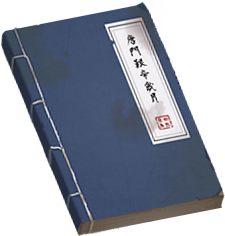
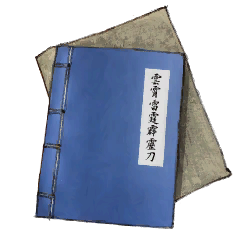
更新雲霄雷霆霹靂刀、雲裳劍法

diff --git a/docs/system/books/book_2302.md b/docs/system/books/book_2302.md
@@ -12,16 +12,16 @@ tags:
 
 # {{ $frontmatter.title }}
 
-<BookItemIcon :size="`medium`" :needLink="false" :no="2302"></BookItemIcon>
+<div style="max-width:1020px">
+<BookItemIcon :size="`medium`" :needLink="false" :no="2302" :style="'float: right;'"></BookItemIcon>
 
-點蒼派萬里挑一的弟子，能破格進入劍廬三日，參悟點蒼劍聖留在劍廬中的三式劍意。三招劍意各有奧義，<br>
-無分高下，得一足以獨步江湖，但是十之有九，住上十天半個月都一無所獲。
+點蒼派萬里挑一的弟子，能破格進入劍廬三日，參悟點蒼劍聖留在劍廬中的三式劍意。三招劍意各有奧義，無分高下，得一足以獨步江湖，但是十之有九，住上十天半個月都一無所獲。
 <br><br>
-葉雲裳好奇心使然，偷溜進去玩，片刻就被人提了出來。她雖不會武功，但是聰明絕頂，而又不落窠臼，<br>
-僅那片刻，就若有所悟，只是年紀太小，迷迷糊糊。今日訣別，才識離愁滋味，往事湧現心頭，豁然頓悟，<br>寫就此招。
+葉雲裳好奇心使然，偷溜進去玩，片刻就被人提了出來。她雖不會武功，但是聰明絕頂，而又不落窠臼，僅那片刻，就若有所悟，只是年紀太小，迷迷糊糊。今日訣別，才識離愁滋味，往事湧現心頭，豁然頓悟，寫就此招。
 <br><br>
 雖只一式，卻殘念無窮，此劍即為劍聖第四極招－－「魂遊故里芳盈袖，春啼曉，莫挽留」。
 <br clear="all" />
+</div>
 
 ## 效果
 
@@ -41,16 +41,16 @@ tags:
     </tr>
     <tr>
         <td>效果</td>
-        <td>刀劍+1</td>
-        <td>刀劍+2</td>
-        <td>刀劍+2</td>
-        <td>刀劍+3</td>
-        <td>刀劍+4<br>點蒼快劍LV1</td>
-        <td>刀劍+5<br>點蒼快劍LV1</td>
-        <td>刀劍+6<br>點蒼快劍LV1</td>
-        <td>刀劍+6<br>點蒼快劍LV1</td>
-        <td>刀劍+7<br>點蒼快劍LV1</td>
-        <td>刀劍+8<br>點蒼快劍LV2</td>
+        <td>刀劍1</td>
+        <td>刀劍2</td>
+        <td>刀劍2</td>
+        <td>刀劍3</td>
+        <td>刀劍4<br>點蒼快劍LV1</td>
+        <td>刀劍5<br>點蒼快劍LV1</td>
+        <td>刀劍6<br>點蒼快劍LV1</td>
+        <td>刀劍6<br>點蒼快劍LV1</td>
+        <td>刀劍7<br>點蒼快劍LV1</td>
+        <td>刀劍8<br>點蒼快劍LV2</td>
     </tr>
     <tr>
         <td>武學點</td>
@@ -72,7 +72,3 @@ tags:
 ## 獲得方式
 
 - 三年一月上旬－葉家辭別(葉雲裳好感>5★贈與)
-
-## 備註
-
-- 圖片是同舟劍法，應該是替代用圖(v1.0.3131)

diff --git a/docs/system/books/book_2000.md b/docs/system/books/book_2000.md
@@ -11,9 +11,11 @@ tags:
 
 # {{ $frontmatter.title }}
 
-<BookItemIcon :size="`medium`" :needLink="false" :no="2000"></BookItemIcon>
-
-雲霄雷霆霹靂刀
+<div style="max-width:822px">
+<BookItemIcon :size="`medium`" :needLink="false" :no="2000" :style="'float: right;'"></BookItemIcon>
+創自前朝大俠雷霑，命名霸氣，招術亦絲毫不含糊，招招大開大闊，好似真有九天之雷劈落的氣勢，出刀之際，還要搭配聲嘶力竭的大喝，轟破敵人護體氣勁。
+<br clear="all" />
+</div>
 
 ## 效果
 
@@ -67,7 +69,3 @@ tags:
 
 - 三年四月上旬－四師兄買物($2000)
 - 千面人事件－選外門弟子，聊到龍湘時說龍湘呆(性情≧60)
-
-## 附註
-
-- 圖片是趙活的日記，應該是替代用圖(v1.0.3131)
